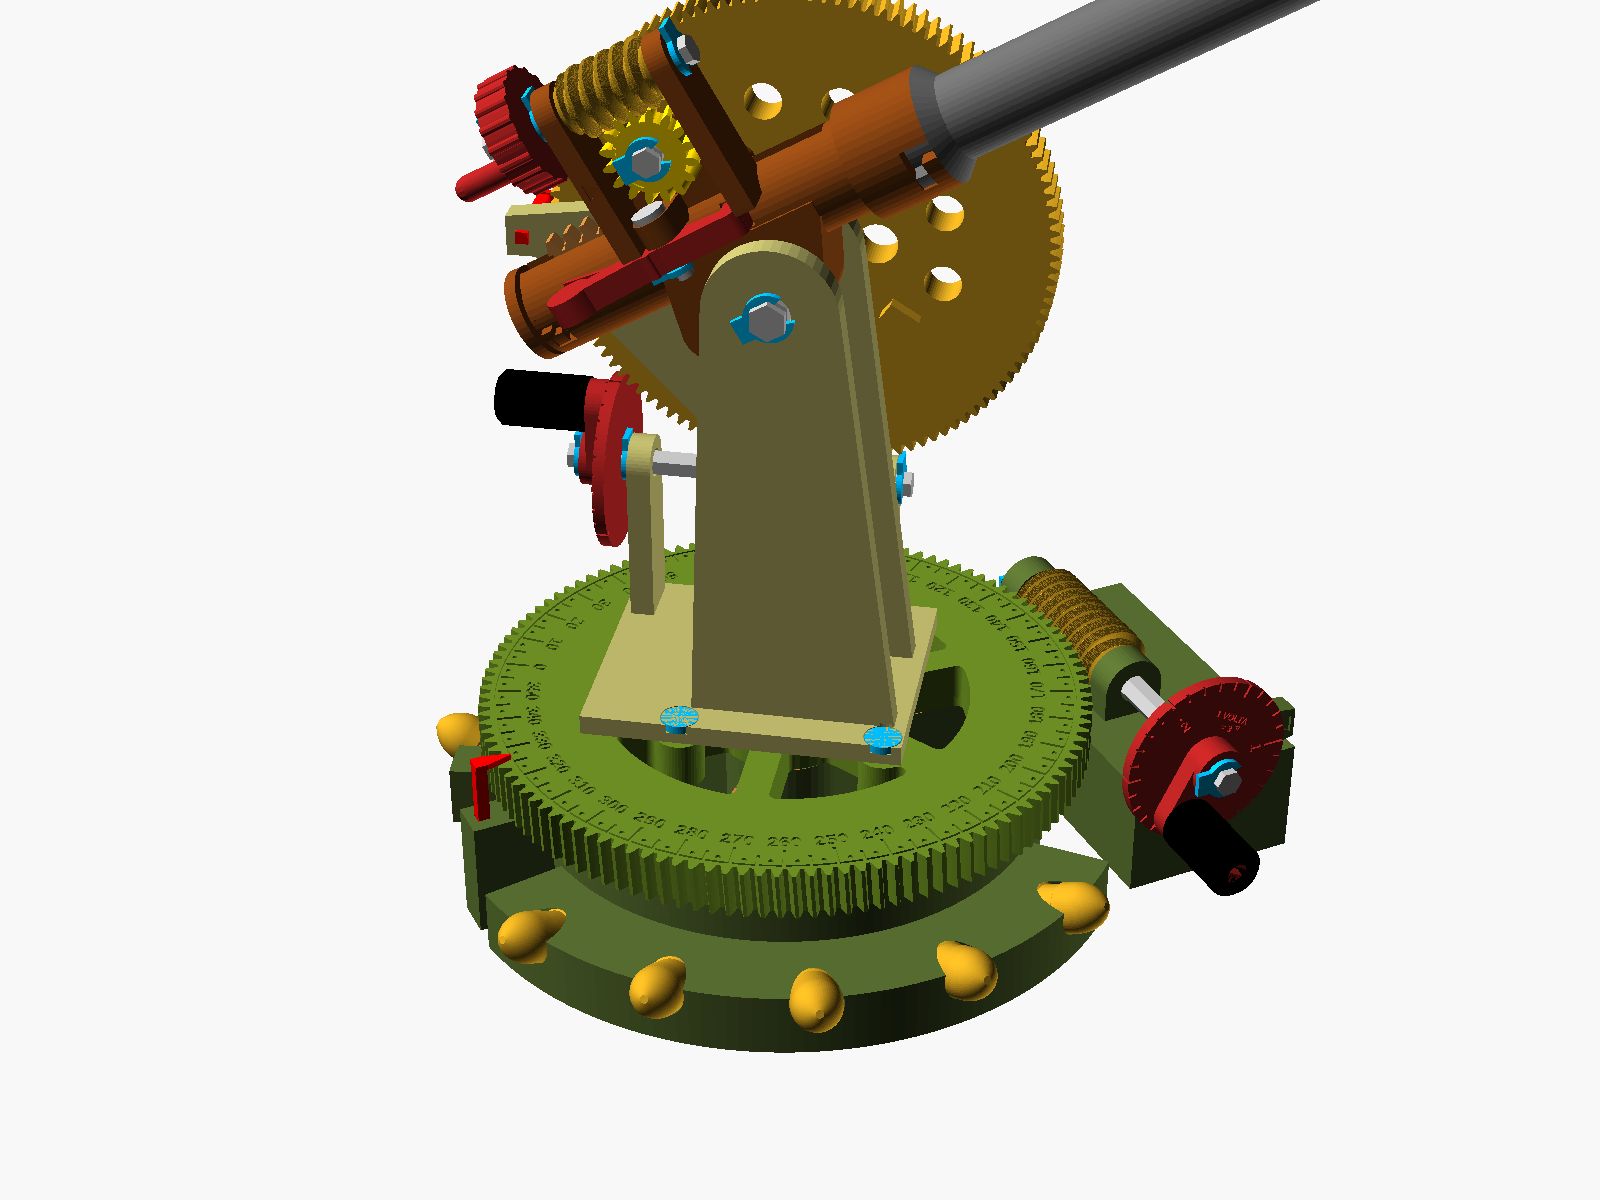
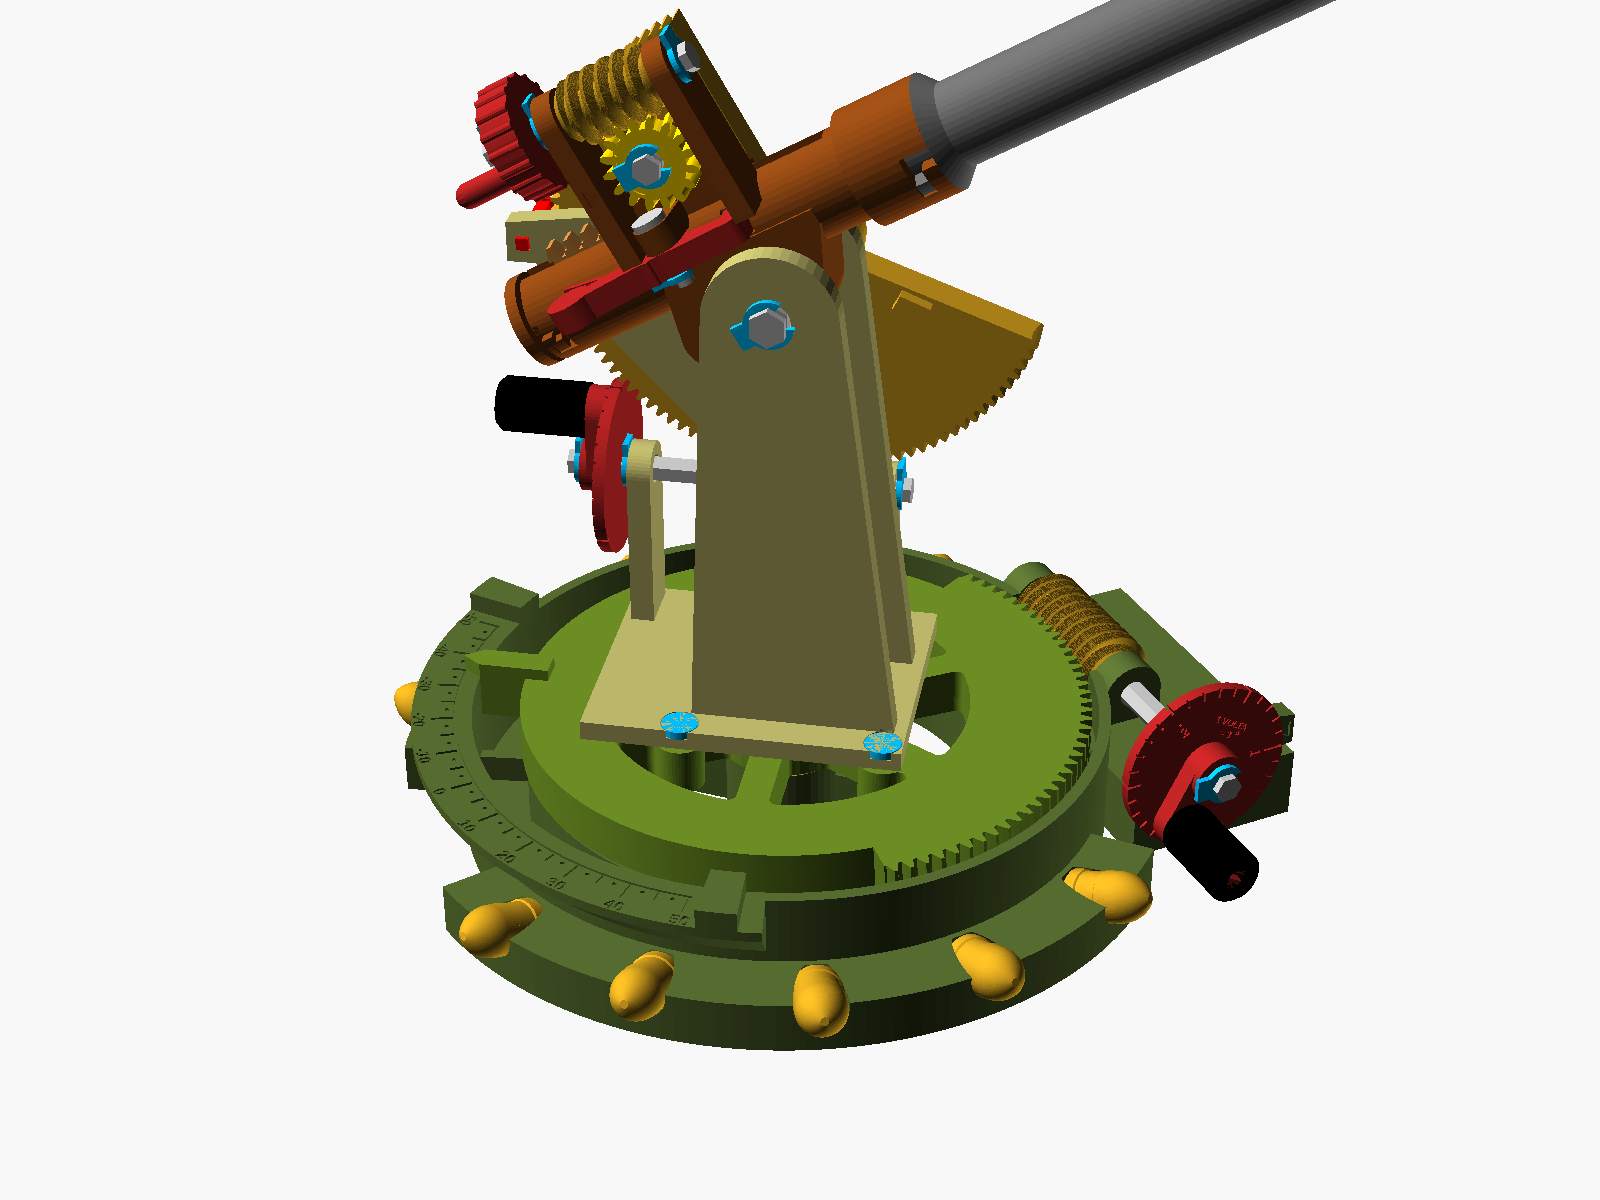
Ponteiro da mesa com fundo plano sobre a parede; README e imagens da v6
Claude-Session: https://claude.ai/code/session_01MAT7JDWnQKaVFjLoye9FdL

diff --git a/artilharia/README.md b/artilharia/README.md
@@ -1,4 +1,4 @@
-# Canhão de brinquedo v4: pontaria 120:1 (3° por volta), lançador de mola e só 2 itens para comprar
+# Canhão de brinquedo v6: coroas em setor, base em bandeja, pontaria 120:1 (3° por volta) e só 2 itens para comprar
 
 ![montagem](montagem.png)
 
@@ -15,11 +15,24 @@ Todo o resto é impresso: rolamento, rebites, baionetas, pinos, eixos e travas. 
 
 | Eixo | Acionamento | Redução | 1 volta da manivela | Números do tambor | 1 marca do tambor |
 |---|---|---|---|---|---|
-| **Azimute** | rosca sem fim → mesa = coroa de 120 dentes, módulo 1,25 (Ø152) | 120 : 1 | **3°** | **1° a cada 1/3 de volta** | 0,1° |
-| **Elevação** | rosca sem fim → coroa de 120 dentes, módulo 1 (Ø122) | 120 : 1 | **3°** | **1° a cada 1/3 de volta** | 0,1° |
+| **Azimute** | rosca sem fim → mesa = setor de coroa (passo de 120 dentes), módulo 1,25 (Ø152) | 120 : 1 | **3°** | **1° a cada 1/3 de volta** | 0,1° |
+| **Elevação** | rosca sem fim → setor de coroa (passo de 120 dentes), módulo 1 (Ø122) | 120 : 1 | **3°** | **1° a cada 1/3 de volta** | 0,1° |
+
+| Eixo | Curso útil | Batente | Dentes que sobraram |
+|---|---|---|---|
+| **Azimute** | **−50° a +50°** (giro total de 100°) | ressalto da mesa bate em 2 blocos da base a ±52° | arco de 120° (41 dentes) |
+| **Elevação** | **−20° a +85°** (dá para atirar para baixo) | ressaltos da coroa batem no carro a −22° e +87° | arco de 220° em volta do eixo |
+
+**Por que a coroa não "solta" no fim do curso:** o batente fica **antes** do último dente. No azimute, o setor
+tem dentes até ±60°, mas o batente para a mesa em ±52°. No fim do curso, a rosca ainda está engrenada com
+**8° de dentes de sobra** (cerca de 2,7 dentes) de cada lado. Na elevação, o batente para em −22°/+87°, e a
+rosca continua no meio dos dentes. Se você forçar a manivela no batente, ela só para, porque a rosca não
+consegue pular para fora da coroa.
 
 **Leitura em duas etapas, como num micrômetro:**
-1. **Escala grande** (na mesa e na coroa de elevação): número a cada 10°, traço a cada 5°, ponto a cada 2,5°.
+1. **Escala grande:** número a cada 10°, traço a cada 5°, ponto a cada 2,5°. No azimute, a escala de −50 a +50
+   agora é **fixa na aba da base**, e o ponteiro é a ponta do ressalto da mesa, que passa por cima da parede.
+   Na elevação, a escala continua na coroa.
 2. **Tambor da manivela** (Ø44): o número 0 fica no braço, e os números 1 e 2 a cada 1/3 de volta (cada um vale 1°).
    Os traços médios marcam 0,5° e os curtos 0,1° (30 marcas por volta). Está gravado **"1 VOLTA = 3°"**. A seta do mancal externo é o índice.
 
@@ -175,11 +188,15 @@ pesa são as paredes. Tirar volume ajuda muito no maciço. No típico, o que mai
 - **Para pesar menos:** imprima a base e o carro com **2 paredes e 10–15%** (dá uns 130 g a menos).
 - **Mantenha 4 paredes e 100%** nas peças que trabalham: roscas, pinhão, gatilho, travas e punhos.
 
-### Base
-- **Pés:** não há mais pernas nem pés de borracha. A base é o anel da pista, a saia com as cartucheiras,
-  a plataforma da manivela e o apoio do ponteiro.
-- **Anel da base:** é oco, com paredes de 2 mm e teto em V a 45°, e tem o assento do **anel de pista** com 8 encaixes.
-- **Plataforma da manivela:** tem um vão em V por baixo, que fica 9 mm abaixo da calha da rosca.
+### Base em bandeja (v6)
+- **Mais baixa:** a mesa agora fica a 20 mm da mesa da sala (antes eram ~35 mm). O punho da manivela de azimute fica ~4 mm acima do chão.
+  Centro de gravidade mais baixo = canhão mais estável.
+- **Bandeja:** o setor de dentes da mesa corre **dentro** da base, entre um piso de 3 mm e uma **parede** em volta
+  (2 mm de folga radial). A parede protege os dentes, endurece a base como a borda de uma assadeira, e é nela que ficam os batentes.
+- **Rígida sem ser maciça:** o anel da pista (paredes de 2 mm e teto em V) se liga ao cubo central por 4 raios e à parede por 6 nervuras.
+- **Aba da escala:** só do lado de trás (±62°), com apoio a 45° para imprimir sem suporte.
+- **Sem anel por cima:** a mesa continua só apoiada nas BBs. O peso do cano e do carro a mantém no lugar, e os blocos de batente seguram o giro.
+- **Plataforma da manivela:** tem um vão em V por baixo, e a rosca entra na bandeja por uma janela da parede.
 
 ## Sem nada comprado além das BBs e da mola
 
@@ -210,7 +227,7 @@ Cada peça já sai na orientação de impressão.
 
 | Grupo | Peças |
 |---|---|
-| Base e mesa | `base`, `mesa`, `anel_pista_base`, `anel_pista_mesa`, `pino_pivo`, `ponteiro_az`, `rebite` ×4 |
+| Base e mesa | `base`, `mesa`, `anel_pista_base`, `anel_pista_mesa`, `pino_pivo`, `rebite` ×4 (o `ponteiro_az` saiu: agora o ponteiro faz parte da mesa) |
 | Carro | `carro`, `ponteiro_el`, `roda_el` |
 | Pontaria | `rosca_az`, `rosca_el`, `manivela_az`, `manivela_el`, `eixo_az`, `eixo_el`, `eixo_munhao` |
 | Lançador | `culatra` (frente para baixo, com suportes), `tampa`, `amortecedor` (TPU), `pistao`, `cano`, `pinhao_armar`, `coroa_armar`, `rosca_armar`, `volante_armar`, `eixo_pinhao`, `eixo_armar`, `gatilho`, `pino_gatilho`, `soquete`, `projetil` (×10 para encher as cartucheiras), `porta_projeteis` |
